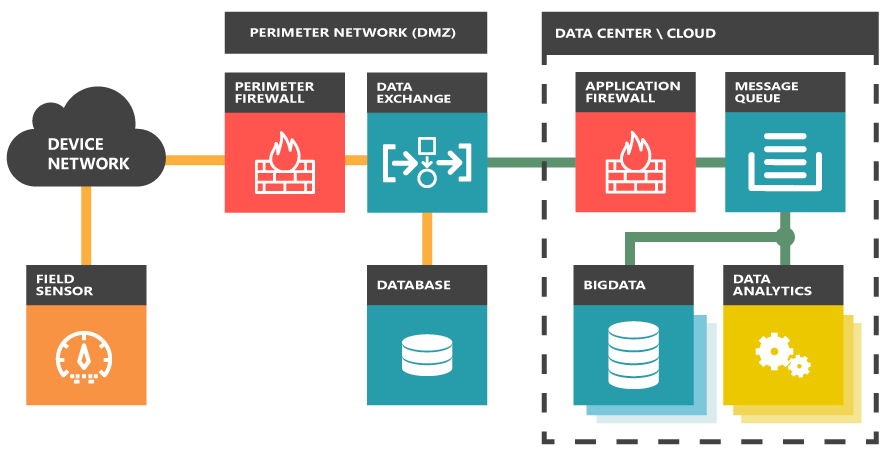
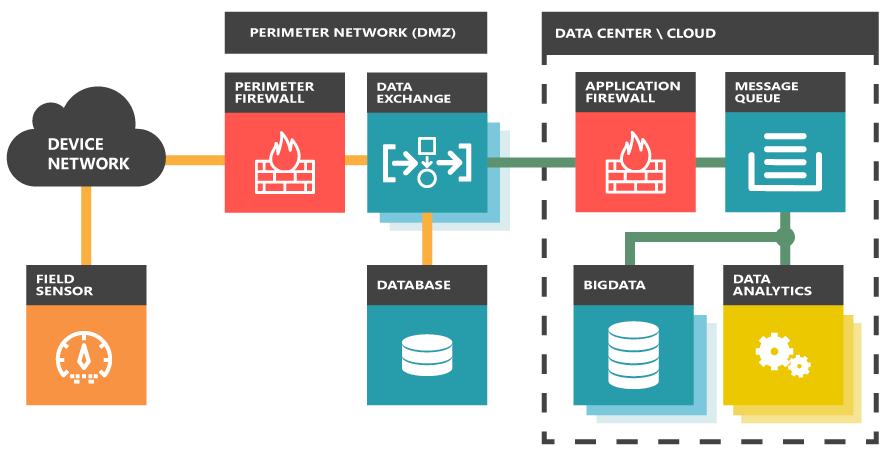
Device convergene updates

Changed region(s): [[0.4266, 0.2467, 0.579, 0.5242]]

diff --git a/src/main/resources/content/index.html b/src/main/resources/content/index.html
@@ -369,7 +369,7 @@
 							<div class="portfolio-hover-content">
 								<i class="fa fa-plus fa-3x"></i>
 							</div>
-						</div> <img src="img/portfolio/DeviceConvergence.png"
+						</div> <img src="img/portfolio/DeviceMediation.png"
 						class="img-responsive" alt="">
 					</a>
 					<div class="portfolio-caption">
@@ -383,7 +383,7 @@
 							<div class="portfolio-hover-content">
 								<i class="fa fa-plus fa-3x"></i>
 							</div>
-						</div> <img src="img/portfolio/ITSMIntegrat.png" class="img-responsive" alt="">
+						</div> <img src="img/portfolio/ITSMIntegration.png" class="img-responsive" alt="">
 					</a>
 					<div class="portfolio-caption">
 						<h4>ITSM Integration</h4>
@@ -477,15 +477,16 @@
 						<div class="col-lg-8 col-lg-offset-2">
 							<div class="modal-body">
 								<h2>Device Convergence</h2>
-								<p class="item-intro text-muted">Mediating the data models, communications protocols and operation activities of devices from many different vendors is challenging and complicated. Use device mediation to bring different devices from different vendors under one common model.</p>
+								<p class="item-intro text-muted">Mediating the data models, communications protocols and operation activities of devices from many different vendors is challenging and complicated. Use device convergence to bring different devices from different vendors under one common model.</p>
 								<img class="img-responsive img-centered" src="img/portfolio/DeviceMediation.png" alt="">
 								<p>Service providers find themselves with a variety of devices deployed in the field. Not only different devices, but different vendors and different versions and models from the same vendor. It seems every device has its own protocol, data model, API and exchange pattern. The challenge is how to represent the different devices and their data in one unified model.</p>
 								<p>A successful approach is the use of device mediation components to abstract the vendor-specific details away from the system. CoyoteDX lives between the field devices and the data center, communicating with the devices in their own native protocols and transforming that data into one the rest of the organization understands. Data passes through the Perimeter Firewall with the devices native protocols but enters the Application Firewall using a single, uniform protocol thanks to the mediation of the CoyoteDX components.</p>
+								<p>A group of workers running in the perimeter network receive jobs via work queues to poll devices in the field and each head-end system. The various forms of data are placed in a common data format and send to other message topics/queues for back office systems to receive and process. As the number of devices in the field increase, so to do the number of workers (and message queues/topic) to accommodate the load. Workers mediate between field devices and all the various protocols and the common unified model in the corporate data center or cloud infrastructure.</p>
 								<p>Dedicated modules are written to interact with either the device directly or an intermediate (head-end) system and exchange data to the rest of the system using a common model. Voice and Data provisioning does not have to embed vendor-specific logic to interact with the hardware. Distribution management systems (DMS) can use IEC common information models (CIM) to interact with grid components using the device mediation modules as a facade to different hardware platforms.</p>
 								<p>The result is vendor lock-in becomes a thing of the past, as CoyoteDX allows any equivalent device from any vendor to be deployed where appropriate and even replace existing devices from other vendors. You can implement Demand Management with devices from multiple vendors and let CoyoteDX handle protocol conversions. Grid Sensors from any vendor can be deployed without having to change any of the existing business logic. CoyoteDX ensures each vendor sends the same set of events and metrics so the back office can concentrate on just one model.</p>
 								<ul class="list-inline">
 									<li><strong>Industries:</strong> Telecommunications, Electric Utility</li>
-									<li><strong>Tools:</strong> Loader, DataFrame, DX, MB, Custom modules for each vendor</li>
+									<li><strong>Tools:</strong> Loader, DataFrame, DX, MB, Custom modules for some vendors</li>
 									<li><strong>Category:</strong> Device Mediation</li>
 								</ul>
 								<button type="button" class="btn btn-primary" data-dismiss="modal">
